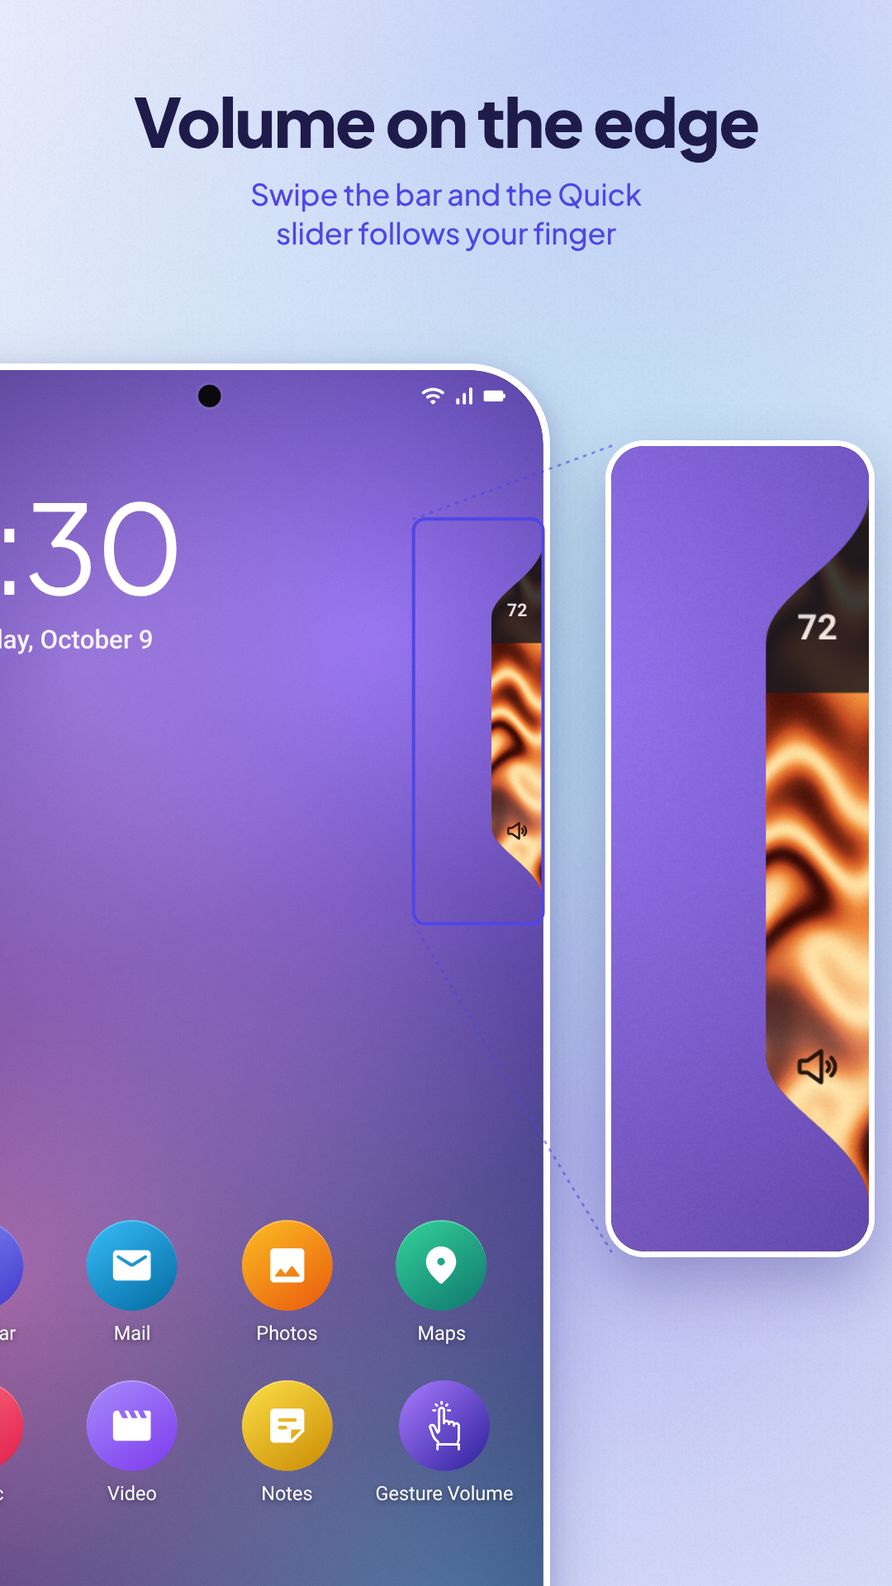
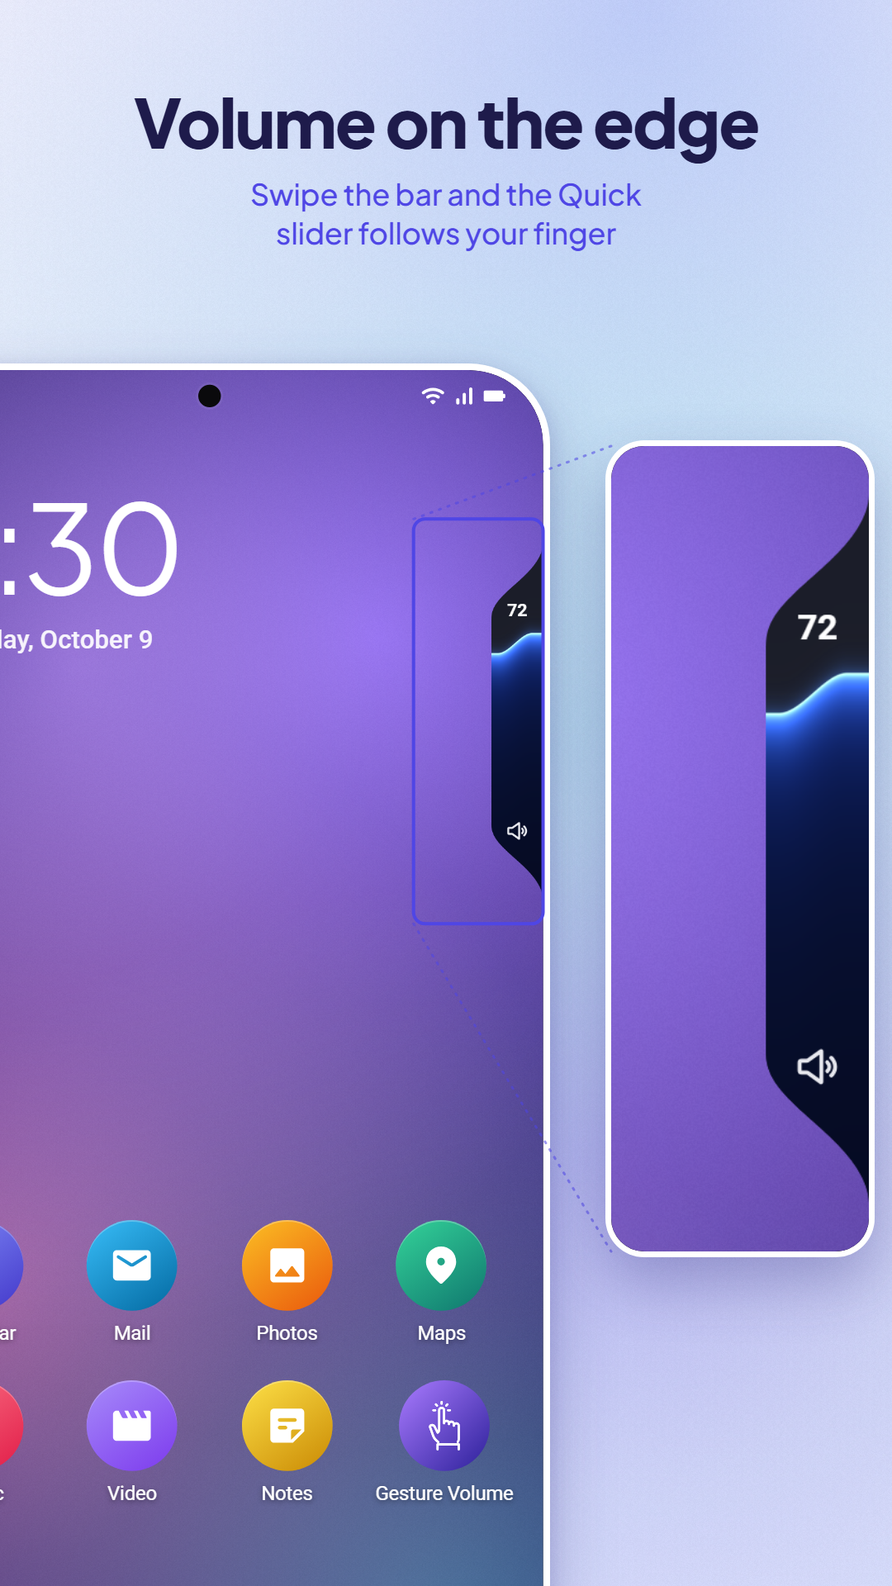
feat: store art in the Bleed style, with the Quick slider in a dozen of its fills
The feature graphic and the promo's thumbnail move to the Bleed screenshots'
light backdrop: "Volume & brightness, your way" on the left, and on the right
the Quick slider (Classic shape, 72 dp) in tilted columns, each in another of
its fills. Play shows the feature graphic as the promo video's cover, cropped
to 16:9 with a play button in the middle, so the words and the sliders stay
inside that crop and the middle stays clear.

The tutorial thumbnails take the same backdrop and lose the app icon: a label,
the title, the tutorial's one line and its number on the left, and the phone
upright on the right, the same size and in the same place in all nine.
Tutorial 2 shows the finger on the button mid-swipe, 4, 8 and 9 leave the hand
out, and 9 shows the Visibility screen, as the lock screen's bar falls below
the crop.

Screenshot 01's Quick slider fills with Surge instead of the plasma shader.
Bleed is the one screenshot style now: the Card shots, feature graphic B and
the spare coin-toss shot are gone, and the renderer no longer makes them.

diff --git a/tool/store/scenes/feature.html b/tool/store/scenes/feature.html
@@ -1,87 +1,78 @@
 <!doctype html><html><head><meta charset="utf-8"><link rel="stylesheet" href="../kit/base.css"></head>
 <body style="margin:0;width:1024px;height:500px"><div id="root" style="position:relative;width:1024px;height:500px;overflow:hidden"></div>
 <script type="module">
-// Google Play feature graphic, 1024 x 500. A: the brief in store/play-listing-en.md — the bar at
-// the right edge grown into the Quick slider, on a plain gradient, the line on the left third.
-// B: the icon and name beside a phone with the Deck open. The middle stays clear in both, because
-// Play lays its play button there when the listing has a video.
-import { h, loadIcons, fontsReady, imagesReady } from '../kit/core.js';
-import { miniPanel, loadDrawables, QuickPanel } from '../kit/quickpanel.js';
-import { gvIcon, Phone, homeScreen, PHONE_ICONS } from '../kit/phone.js';
-import { EdgeBar, PRESETS } from '../kit/quickpanel.js';
-import { Deck, DECK_ICONS, mediaCard } from '../kit/deck.js';
+// Google Play feature graphic, 1024 x 500, and the promo's YouTube thumbnail (v=yt, drawn at
+// 1920 x 1080), on the light backdrop of the Bleed screenshots: the words on the left, and on the
+// right the Quick slider in the Classic shape, 72 dp thick, in a dozen of its fills, in tilted
+// columns that run off the top and bottom. Play uses the feature graphic as the promo video's
+// cover, cropped to 16:9 (68 px off each side) with its play button over the middle, so both are
+// laid out in that 16:9 frame, 500 units tall: the words in its left third, the sliders in its
+// right third, the middle clear. The thumbnail is the same frame, drawn 2.16 times the size.
+import { h, fontsReady, imagesReady } from '../kit/core.js';
+import { QuickPanel, PRESETS, loadDrawables } from '../kit/quickpanel.js';
+import { fillPanel } from '../kit/panelfills.js';
+import '../kit/pictorialfills.js';
+import { Backdrop } from '../kit/stage.js';
+
 const q = new URLSearchParams(location.search);
-const variant = q.get('v') || 'a';
+const yt = q.get('v') === 'yt';
+const W = yt ? 1920 : 1024, H = yt ? 1080 : 500;
+const k = H / 500;                        // px per unit of the frame
+const FW = 500 * 16 / 9;                  // the frame's width in units
+const X0 = (W - FW * k) / 2;              // where it starts: 68 px in on the feature graphic, 0 on the thumbnail
+const u = (n) => n * k;                   // a length in units, in px
+const ux = (n) => X0 + n * k;             // an x in units, in px
 const root = document.getElementById('root');
+root.style.width = W + 'px'; root.style.height = H + 'px';
+document.body.style.width = W + 'px'; document.body.style.height = H + 'px';
+
+// The sliders, column by column from the left, each column top to bottom: a fill, the level it
+// shows and its icon. (Clock: the fill's own cycle for the pictures, in s.)
+const VOL = 'ic_vol_increase', SUN = 'ic_brightness_up';
+const COLUMNS = [
+  [[{ kind: 'shader', effect: 'mesh' }, 0.5, SUN], [{ kind: 'tide-up' }, 0.58, VOL, 2.6], [{ kind: 'sunrise' }, 0.66, SUN, 9]],
+  [[{ kind: 'liquid' }, 0.7, VOL, 6], [{ kind: 'surge', look: 'curve' }, 0.64, VOL], [{ kind: 'cyberpunk' }, 0.5, SUN, 2.4], [{ kind: 'shader', effect: 'caustics' }, 0.6, VOL]],
+  [[{ kind: 'waveform' }, 0.62, VOL, 2.4], [{ kind: 'shader', effect: 'aurora' }, 0.74, SUN], [{ kind: 'surge', look: 'flame' }, 0.56, VOL], [{ kind: 'silk' }, 0.68, SUN, 7]],
+  [[{ kind: 'surge', look: 'honeycomb' }, 0.6, SUN], [{ kind: 'pixels', pattern: 'spectrum', columns: 4, gap: 0.18, roundness: 0.35, glow: 0.6, rest: 0.1 }, 0.66, VOL], [{ kind: 'galaxy' }, 0.6, SUN, 24]],
+];
+// Units a dp, the tilt, and where the columns' middle is; each column starts a little lower than
+// the one before, so no two panels sit side by side.
+const SC = 0.85, PW = 72, PH = 220, TILT = -24;
+const PITCH_X = PW * SC + 20, PITCH_Y = PH * SC + 20;
+const CX = 752, CY = 250, STAGGER = [-0.62, -0.18, -0.48, -0.02];
+
 window.sceneReady = (async () => {
-  await loadIcons([...PHONE_ICONS, ...DECK_ICONS]);
-  await loadDrawables(['ic_vol_increase']);
-  await QuickPanel.shadersFor([{ kind: 'shader', effect: 'plasma' }]);
+  const all = COLUMNS.flat();
+  await loadDrawables([VOL, SUN]);
+  await QuickPanel.shadersFor(all.map(([f]) => f));
   await fontsReady();
+  const bd = new Backdrop(W, H, { light: true, seed: 8 });
+  root.appendChild(bd.el);
+
+  // The sliders, under a soft indigo shadow cast straight down.
+  const shade = h(`<div style="position:absolute;inset:0;filter:drop-shadow(0 ${u(12)}px ${u(16)}px rgba(49,46,129,.26)) drop-shadow(0 ${u(3)}px ${u(5)}px rgba(49,46,129,.16))"></div>`);
+  const tilt = h(`<div style="position:absolute;left:${ux(CX)}px;top:${u(CY)}px;width:0;height:0;transform:rotate(${TILT}deg)"></div>`);
+  shade.appendChild(tilt);
+  root.appendChild(shade);
   const draws = [];
-  let W = 1024, H = 500;
-  if (variant === 'yt') {
-    // The promo's YouTube thumbnail: variant A's idea at 16:9, drawn at 1920 x 1080.
-    W = 1920; H = 1080;
-    root.style.width = W + 'px'; root.style.height = H + 'px';
-    document.body.style.width = W + 'px'; document.body.style.height = H + 'px';
-    root.appendChild(h(`<div style="position:absolute;inset:0;background:
-        radial-gradient(circle 760px at 80% 35%, rgba(170,123,255,.55), rgba(170,123,255,0) 70%),
-        radial-gradient(circle 700px at 95% 100%, rgba(45,212,191,.28), rgba(45,212,191,0) 70%),
-        radial-gradient(circle 640px at 5% 110%, rgba(251,113,133,.25), rgba(251,113,133,0) 70%),
-        linear-gradient(120deg,#1A1150 0%,#2C209A 55%,#3B1F8E 100%)"></div>`));
-    root.appendChild(h(`<div style="position:absolute;left:120px;top:0;bottom:0;width:1240px;display:flex;flex-direction:column;justify-content:center">
-        <div style="display:flex;align-items:center;gap:26px">${gvIcon(104, 'squircle')}
-          <div style="font:800 56px/1 'Plus Jakarta Sans';color:#fff;letter-spacing:-.01em">Gesture Volume</div></div>
-        <div style="margin-top:56px;font:800 150px/1 'Plus Jakarta Sans';letter-spacing:-.04em;color:#fff">Volume.<br>Brightness.<br><span style="color:#C9C2FF">Everything else.</span></div>
-      </div>`));
-    root.appendChild(h(`<div style="position:absolute;right:-120px;top:60px;width:560px;height:960px;background:radial-gradient(closest-side,rgba(255,154,90,.38),rgba(255,154,90,0))"></div>`));
-    const k = 4.1;
-    const host = h(`<div style="position:absolute;right:0;top:${540 - 110 * k}px;width:32px;height:220px;transform-origin:100% 0;transform:scale(${k})"></div>`);
-    root.appendChild(host);
-    const d = miniPanel(host, { w: 32, h: 220, shape: 'tab', flare: 0.22, fill: { kind: 'shader', effect: 'plasma' }, showValue: true, showIcon: true });
-    draws.push((t) => d({ value: 0.72, t: 2 + t, fillTime: 11 + t }));
-  } else if (variant === 'a') {
-    root.appendChild(h(`<div style="position:absolute;inset:0;background:
-        radial-gradient(circle 420px at 78% 30%, rgba(170,123,255,.55), rgba(170,123,255,0) 70%),
-        radial-gradient(circle 380px at 92% 95%, rgba(45,212,191,.28), rgba(45,212,191,0) 70%),
-        radial-gradient(circle 360px at 10% 110%, rgba(251,113,133,.25), rgba(251,113,133,0) 70%),
-        linear-gradient(120deg,#1A1150 0%,#2C209A 55%,#3B1F8E 100%)"></div>`));
-    root.appendChild(h(`<div style="position:absolute;left:64px;top:92px;width:560px">
-        <div style="display:flex;align-items:center;gap:14px">${gvIcon(52, 'squircle')}
-          <div style="font:700 26px/1 'Plus Jakarta Sans';color:#fff;letter-spacing:-.01em">Gesture Volume</div></div>
-        <div style="margin-top:34px;font:800 58px/1.04 'Plus Jakarta Sans';letter-spacing:-.03em;color:#fff">Volume.<br>Brightness.<br><span style="color:#C9C2FF">Everything else.</span></div>
-      </div>`));
-    // The panel against the right edge, as on a phone: 32 x 220 dp drawn twice the size.
-    root.appendChild(h(`<div style="position:absolute;right:-60px;top:40px;width:260px;height:420px;background:radial-gradient(closest-side,rgba(255,154,90,.35),rgba(255,154,90,0))"></div>`));
-    const host = h(`<div style="position:absolute;right:0;top:${250 - 220 * 1.06}px;width:32px;height:220px;transform-origin:100% 0;transform:scale(2.12)"></div>`);
-    root.appendChild(host);
-    const d = miniPanel(host, { w: 32, h: 220, shape: 'tab', flare: 0.22, fill: { kind: 'shader', effect: 'plasma' }, showValue: true, showIcon: true });
-    draws.push((t) => d({ value: 0.72, t: 2 + t, fillTime: 11 + t }));
-  } else {
-    root.appendChild(h(`<div style="position:absolute;inset:0;background:
-        radial-gradient(circle 480px at 85% 20%, rgba(124,92,255,.5), rgba(124,92,255,0) 70%),
-        radial-gradient(circle 300px at 70% 100%, rgba(45,212,191,.25), rgba(45,212,191,0) 70%),
-        linear-gradient(120deg,#120C3A,#2C209A)"></div>`));
-    root.appendChild(h(`<div style="position:absolute;left:64px;top:118px;width:400px">
-        ${gvIcon(96, 'squircle')}
-        <div style="margin-top:26px;font:800 54px/1.02 'Plus Jakarta Sans';letter-spacing:-.03em;color:#fff">Gesture Volume</div>
-        <div style="margin-top:14px;font:500 24px/1.3 'Plus Jakarta Sans';color:#C9C2FF">An edge bar for volume, brightness and a deck of tools</div></div>`));
-    const phone = new Phone({ wallpaper: 'ocean', radius: 46 });
-    phone.below.appendChild(homeScreen());
-    const bar = new EdgeBar(phone, PRESETS.dock);
-    const deck = new Deck(phone, bar, { people: [{ name: 'Mom', via: 'call' }, { name: 'Alex Kim', via: 'whatsapp' }], apps: ['camera', 'music', 'maps'] });
-    deck.showCard('media', mediaCard({ playing: true, volume: 0.62 }));
-    deck.setActive('media', true);
-    const holder = h(`<div style="position:absolute;left:600px;top:48px;width:${412 * 0.92 + 12}px;padding:6px;border-radius:${46 * 0.92 + 6}px;background:rgba(255,255,255,.92);
-        transform:rotate(-8deg);transform-origin:50% 0;box-shadow:0 30px 60px rgba(5,3,20,.6)">
-        <div class="scr" style="width:${412 * 0.92}px;height:${915 * 0.92}px;border-radius:${46 * 0.92}px;overflow:hidden;position:relative"></div></div>`);
-    phone.el.style.transform = 'scale(0.92)';
-    holder.querySelector('.scr').appendChild(phone.el);
-    root.appendChild(holder);
-    draws.push(() => { bar.draw({ alpha: 0 }); deck.set({}); });
-  }
+  COLUMNS.forEach((col, j) => col.forEach(([fill, value, icon, cycle], i) => {
+    const x = (j - (COLUMNS.length - 1) / 2) * PITCH_X - (PW * SC) / 2;
+    const y = (i - 1 + STAGGER[j]) * PITCH_Y - (PH * SC) / 2;
+    const host = h(`<div style="position:absolute;left:${u(x)}px;top:${u(y)}px;width:${PW}px;height:${PH}px;transform-origin:0 0;transform:scale(${u(SC)})"></div>`);
+    tilt.appendChild(host);
+    const p = fillPanel(host, { w: PW, h: PH, bar: PRESETS.classic, fill, icon, showValue: true, showIcon: true });
+    draws.push((t) => p.draw({ value, t: 1.59 + t, fillTime: 12.5 + 1.7 * (i + j) + t, phase: (((3 + i + j) + t) / (cycle || 2)) % 1, arrival: 1 }));
+  }));
+
+  // The words, in the Bleed captions' colours: 32 units in from the frame's left edge, as large as
+  // they can be with "brightness," still ending clear of the play button in the middle.
+  root.appendChild(h(`<div style="position:absolute;left:${ux(32)}px;top:0;bottom:0;width:${u(340)}px;display:flex;flex-direction:column;justify-content:center">
+      <div style="font:700 ${u(16)}px/1 'Plus Jakarta Sans';letter-spacing:.16em;text-transform:uppercase;color:#4F46E5">Gesture Volume</div>
+      <div style="margin-top:${u(16)}px;font:800 ${u(60)}px/1 'Plus Jakarta Sans';letter-spacing:-.03em;color:#1E1B4B;white-space:nowrap">Volume &amp;<br>brightness,<br><span style="color:#4F46E5">your way</span></div></div>`));
   await imagesReady(root);
-  window.scene = { width: W, height: H, duration: 0, seek(t) { draws.forEach((d) => d(t)); } };
+  window.scene = { width: W, height: H, duration: 0, seek(t) {
+    bd.draw(4 + t);
+    draws.forEach((d) => d(t));
+  } };
 })();
 </script></body></html>

diff --git a/tool/store/kit/thumb.js b/tool/store/kit/thumb.js
@@ -1,20 +1,19 @@
-// YouTube thumbnails (1280 x 720, drawn at 1920 x 1080 and scaled down): the app's name, a title
-// big enough to read on a phone, and the phone showing the moment that matters, tilted a little.
+// YouTube thumbnails (1280 x 720, drawn at 1920 x 1080 and scaled down), in the style of the Bleed
+// screenshots: dark words on their light backdrop on the left, and the phone upright on the right,
+// large and cropped at the bottom, the same size and in the same place in every one.
 import { h } from './core.js';
-import { gvIcon } from './phone.js';
 
-export function thumbOverlay({ title, badge = null, sub = null }) {
-  return h(`<div class="thumb" style="position:absolute;inset:0;z-index:50;pointer-events:none">
-      <div style="position:absolute;inset:0;background:linear-gradient(90deg,rgba(16,11,51,.92) 0%,rgba(16,11,51,.78) 40%,rgba(16,11,51,0) 62%)"></div>
-      <div style="position:absolute;left:110px;top:0;bottom:0;width:930px;display:flex;flex-direction:column;justify-content:center">
-        <div style="display:flex;align-items:center;gap:24px">${gvIcon(92, 'squircle')}
-          <div style="font:800 50px/1 'Plus Jakarta Sans';letter-spacing:-.01em;color:#fff;white-space:nowrap">Gesture Volume</div></div>
-        <div style="margin-top:44px;font:800 164px/.96 'Plus Jakarta Sans';letter-spacing:-.045em;color:#fff;text-wrap:balance">${title}</div>
-        ${sub ? `<div style="margin-top:40px;font:600 50px/1.22 'Plus Jakarta Sans';color:#C9C2FF;text-wrap:balance">${sub}</div>` : ''}
-        ${badge ? `<div style="margin-top:48px;align-self:flex-start;border-radius:999px;background:#7C6CF6;padding:16px 36px;font:800 44px/1 'Plus Jakarta Sans';color:#fff;white-space:nowrap">${badge}</div>` : ''}
-      </div></div>`);
+export function thumbOverlay({ title, sub = null, badge = null }) {
+  // A hyphenated word stays whole, so "Long-press" never breaks after its hyphen.
+  title = title.replace(/\S+-\S+/g, (w) => `<span style="white-space:nowrap">${w}</span>`);
+  return h(`<div class="thumb" style="position:absolute;left:120px;top:0;bottom:0;width:900px;z-index:50;pointer-events:none;display:flex;flex-direction:column;justify-content:center">
+      <div style="font:700 32px/1 'Plus Jakarta Sans';letter-spacing:.16em;text-transform:uppercase;color:#4F46E5">Gesture Volume</div>
+      <div style="margin-top:30px;font:800 150px/.98 'Plus Jakarta Sans';letter-spacing:-.04em;color:#1E1B4B;text-wrap:balance">${title}</div>
+      ${sub ? `<div style="margin-top:36px;max-width:820px;font:500 46px/1.28 'Plus Jakarta Sans';color:#4F46E5;text-wrap:balance">${sub}</div>` : ''}
+      ${badge ? `<div style="margin-top:48px;align-self:flex-start;border-radius:999px;background:#4F46E5;padding:16px 34px;font:800 40px/1 'Plus Jakarta Sans';color:#fff;white-space:nowrap">${badge}</div>` : ''}
+    </div>`);
 }
 
-// The frame's transform that puts phone point (cx, cy) at (fx, fy), scaled s and turned deg.
-export const thumbTransform = ({ cx, cy, s, deg = -4, fx = 1440, fy = 560 }) =>
-  `translate(${fx}px,${fy}px) rotate(${deg}deg) scale(${s}) translate(${-(cx + 7)}px,${-(cy + 7)}px)`;
+// Where the phone's frame (426 x 929 at scale 1) goes: scaled 1.42, its top 96 px down and its right
+// edge 150 px in from the thumbnail's right edge, so about the top three quarters of the screen show.
+export const thumbTransform = (W = 1920, s = 1.42) => `translate(${W - 150 - 426 * s}px,96px) scale(${s})`;

diff --git a/tool/store/kit/tutorial.js b/tool/store/kit/tutorial.js
@@ -158,16 +158,18 @@ export async function buildTutorial(root, id, script, { icons = [], prepare = nu
   await loadIcons([...new Set([...PHONE_ICONS, ...M3_ICONS, ...icons])]);
   if (prepare) await prepare();
   await fontsReady();
-  root.style.cssText = `position:relative;width:${W}px;height:${H}px;overflow:hidden;background:#100B33`;
+  // The videos are dark; the thumbnails take the light backdrop and frame of the Bleed screenshots.
+  const light = !!thumb;
+  root.style.cssText = `position:relative;width:${W}px;height:${H}px;overflow:hidden;background:${light ? '#F5F3FF' : '#100B33'}`;
 
-  const bd = new Backdrop(W, H, { seed: 40 + n });
+  const bd = new Backdrop(W, H, { light, seed: 40 + n });
   root.appendChild(bd.el);
 
   // --- The phone ----------------------------------------------------------------------------------
   const world = h(`<div style="position:absolute;inset:0"></div>`);
   root.appendChild(world);
-  const frame = h(`<div style="position:absolute;left:0;top:0;transform-origin:0 0;padding:7px;border-radius:53px;background:rgba(255,255,255,.92);
-      box-shadow:0 40px 90px rgba(8,5,30,.55),0 10px 30px rgba(8,5,30,.35)"></div>`);
+  const frame = h(`<div style="position:absolute;left:0;top:0;transform-origin:0 0;padding:7px;border-radius:53px;background:${light ? '#FFFFFF' : 'rgba(255,255,255,.92)'};
+      box-shadow:${light ? '0 30px 80px rgba(49,46,129,.28),0 8px 24px rgba(49,46,129,.18)' : '0 40px 90px rgba(8,5,30,.55),0 10px 30px rgba(8,5,30,.35)'}"></div>`);
   // Side keys, so a video can press them: power, then volume up and down, on the right.
   const key = (y, hgt) => h(`<div style="position:absolute;left:424px;top:${y}px;width:5px;height:${hgt}px;border-radius:0 3px 3px 0;background:rgba(232,230,245,.95);transform-origin:0 50%"></div>`);
   const keys = { power: key(190, 58), up: key(286, 84), down: key(376, 84) };
@@ -351,13 +353,15 @@ export async function buildTutorial(root, id, script, { icons = [], prepare = nu
 
   const series = { n, of: SERIES.length, id, title: meta.title, sub: meta.sub, next: next ? next.title : null };
   if (thumb) {
-    // A still for the thumbnail: the moment thumb.t, the phone where thumb.cam puts it, words over.
+    // A still for the thumbnail: the moment thumb.t, the phone upright on the right, words beside it;
+    // thumb.hand false leaves the hand out.
     for (const el of [header, bar, title, outro, ...caps.map((c) => c.el)]) el.style.display = 'none';
-    root.appendChild(thumbOverlay({ title: thumb.title, badge: `Tutorial ${n}` }));
+    root.appendChild(thumbOverlay({ title: thumb.title, sub: meta.sub, badge: `Tutorial ${n}` }));
     const still = () => {
       seek(thumb.t);
       for (const el of [header, bar, title, outro, ...caps.map((c) => c.el)]) el.style.display = 'none';
-      frame.style.transform = thumbTransform(thumb.cam);
+      if (thumb.hand === false) handWrap.style.display = 'none';
+      frame.style.transform = thumbTransform(W);
       frame.style.opacity = 1;
     };
     return { width: W, height: H, duration: 0, seek: still };

diff --git a/tool/store/kit/shots.js b/tool/store/kit/shots.js
@@ -1,9 +1,11 @@
 // The Play Store phone screenshots: nine scenes from store/play-listing-en.md's shot list, each
-// drawn by the kit and framed two ways at 1080 x 1920 — "card" (the whole screen under a
-// caption) and "close" (closer in on the part that matters).
+// drawn by the kit and framed at 1080 x 1920 — "bleed" (light, the phone large and cropped, the
+// framing the store uses) or "card" (dark, the whole screen under a caption).
 import { h, icon, loadIcons, fontsReady, imagesReady, clamp } from './core.js';
 import { Phone, homeScreen, PHONE_ICONS, SCREEN, paintWallpaper } from './phone.js';
 import { EdgeBar, QuickPanel, PRESETS, loadDrawables, drawDrawable, tabPoints, DPR } from './quickpanel.js';
+import { FillPanel } from './panelfills.js';
+import './pictorialfills.js';
 import { Deck, DECK_ICONS, searchCard, mediaCard, coinCard, coinAt } from './deck.js';
 import { LongPressMenu, MENU_ICONS } from './menu.js';
 import { appearanceScreen, quickSliderScreen, visibilityScreen, mountQuickSlider, SCREEN_ICONS } from './screens.js';
@@ -15,7 +17,7 @@ import * as M from './m3.js';
 export const ALL_ICONS = [...new Set([...PHONE_ICONS, ...DECK_ICONS, ...MENU_ICONS, ...SCREEN_ICONS, ...SYSTEM_ICONS])];
 export const DRAWABLES = ['ic_vol_increase', 'ic_vol_decrease', 'ic_move', 'ic_brightness_up', 'ic_mute'];
 
-export const HERO_FILL = { kind: 'shader', effect: 'plasma' };
+export const HERO_FILL = { kind: 'surge', look: 'curve' };
 const PEOPLE = [{ name: 'Mom', via: 'call' }, { name: 'Alex Kim', via: 'whatsapp' }];
 
 function addHand(phone, pose) {
@@ -37,9 +39,10 @@ export const SHOTS = [
     build(phone) {
       phone.below.appendChild(homeScreen());
       const bar = new EdgeBar(phone, PRESETS.dock);
-      const qp = new QuickPanel(phone, bar, { fill: window.SHOT_FILL || HERO_FILL });
+      const qp = new FillPanel(phone, bar, { fill: window.SHOT_FILL || HERO_FILL });
+      // At 1.59 s on the feedback clock the sheen has just left the fill, so the still shows none.
       const v = 0.72;
-      return (t) => { bar.draw({ alpha: 0 }); qp.draw({ e: 1, value: v, t: 2.2 + t, fillTime: 11 + t }); };
+      return (t) => { bar.draw({ alpha: 0 }); qp.draw({ e: 1, value: v, t: 1.59 + t, fillTime: 11 + t, phase: ((2.2 + t) / 2.6) % 1 }); };
     },
     wallpaper: 'dusk',
   },

diff --git a/tool/store/scenes/shot.html b/tool/store/scenes/shot.html
@@ -6,7 +6,7 @@ const q = new URLSearchParams(location.search);
 if (q.get('fill')) { const [kind, name] = q.get('fill').split(':'); window.SHOT_FILL = kind === 'surge' ? { kind, look: name } : kind === 'shader' ? { kind, effect: name } : { kind }; }
 const def = SHOTS.find((s) => s.id === q.get('id')) || SHOTS[+(q.get('n') || 0)];
 window.sceneReady = (async () => {
-  const draw = await composeShot(document.getElementById('root'), def, q.get('style') || 'card');
+  const draw = await composeShot(document.getElementById('root'), def, q.get('style') || 'bleed');
   window.scene = { width: 1080, height: 1920, duration: 0, seek(t) { draw(t); } };
 })();
 </script></body></html>

diff --git a/tool/store/kit/tutorials/appearance.js b/tool/store/kit/tutorials/appearance.js
@@ -127,4 +127,4 @@ export async function script(T) {
   T.on((t) => { app.render(t); mine.draw({ alpha: t >= homeAt ? 1 : 0 }); });
 }
 
-export const THUMB = { t: 35.0, title: 'Make it yours', cam: { cx: 206, cy: 430, s: 1.45, deg: -5 } };
+export const THUMB = { t: 35.0, title: 'Make it yours', hand: false };

diff --git a/tool/store/kit/tutorials/actions.js b/tool/store/kit/tutorials/actions.js
@@ -104,4 +104,4 @@ export async function script(T) {
   T.on((t) => { actionsEl.render(t); picker1.render(t); editor.render(t); });
 }
 
-export const THUMB = { t: 33.5, title: 'Your gestures', cam: { cx: 206, cy: 330, s: 1.5, deg: -5 } };
+export const THUMB = { t: 33.5, title: 'Your gestures' };

diff --git a/tool/store/kit/tutorials/search.js b/tool/store/kit/tutorials/search.js
@@ -155,4 +155,4 @@ function keyFor(ch) {
   return ch;
 }
 
-export const THUMB = { t: 13.0, title: 'Search in the Deck', cam: { cx: 200, cy: 200, s: 2.2, deg: -4, fx: 1470 } };
+export const THUMB = { t: 13.0, title: 'Search in the Deck' };

diff --git a/tool/store/kit/tutorials/visibility.js b/tool/store/kit/tutorials/visibility.js
@@ -160,4 +160,4 @@ export async function script(T) {
   });
 }
 
-export const THUMB = { t: 58.6, title: 'Out of the way', cam: { cx: 236, cy: 470, s: 1.3, deg: -5 } };
+export const THUMB = { t: 37.5, title: 'Out of the way', hand: false };

diff --git a/tool/store/kit/tutorials/swipe-volume.js b/tool/store/kit/tutorials/swipe-volume.js
@@ -120,4 +120,4 @@ export async function script(T) {
   });
 }
 
-export const THUMB = { t: 12.4, title: 'Swipe for volume', cam: { cx: 320, cy: 300, s: 2.0, deg: -5 } };
+export const THUMB = { t: 11.5, title: 'Swipe for volume' };

diff --git a/tool/store/kit/tutorials/menu.js b/tool/store/kit/tutorials/menu.js
@@ -102,4 +102,4 @@ export async function script(T) {
   });
 }
 
-export const THUMB = { t: 11.0, title: 'Long-press menu', cam: { cx: 260, cy: 230, s: 1.9, deg: -5 } };
+export const THUMB = { t: 11.0, title: 'Long-press menu' };

diff --git a/tool/store/kit/tutorials/deck.js b/tool/store/kit/tutorials/deck.js
@@ -157,4 +157,4 @@ export async function script(T) {
   });
 }
 
-export const THUMB = { t: 28.5, title: 'The Deck', cam: { cx: 230, cy: 240, s: 2.0, deg: -5 } };
+export const THUMB = { t: 28.5, title: 'The Deck', hand: false };
